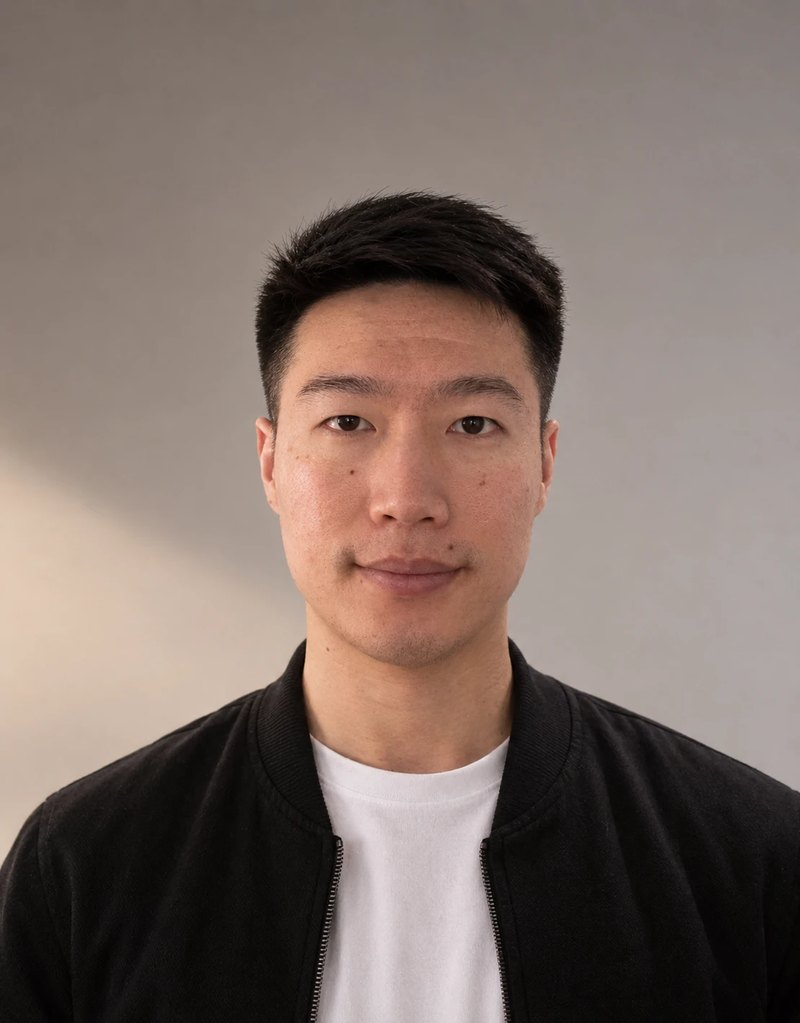
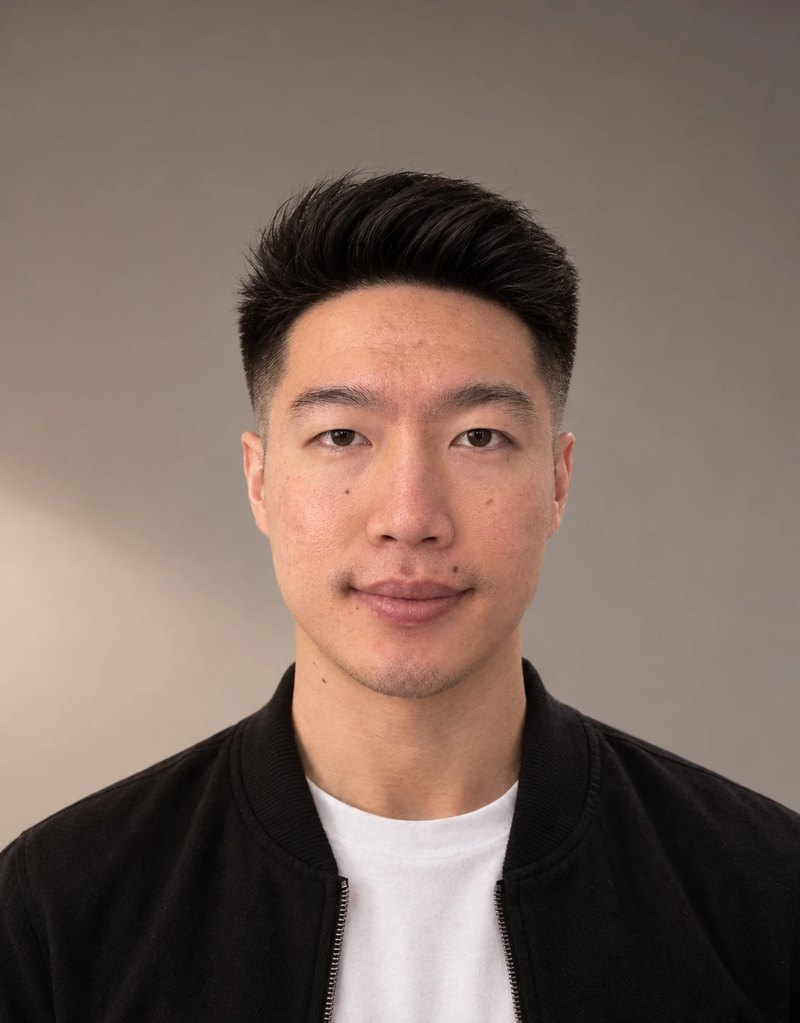
Swap in the 2026-10-01 studio headshot
Replace assets/photo.jpg with the portrait Cody sent 2026-10-01, made with the
README's Pillow recipe (800x1023 progressive JPEG, sRGB, ~72 KB). Same path,
so both polaroids and the JSON-LD image pick it up with no markup changes. The
README's size note now says ~72 KB.

diff --git a/README.md b/README.md
@@ -62,7 +62,7 @@ rounded-up estimates so the figures stay true as the apps grow and rarely need e
 
 - **Copy style:** no em dashes. Use a period, a comma, or a colon instead. En dashes appear
   only in year ranges on the Experience page. No italics anywhere.
-- **Swap the photo:** the portrait is `assets/photo.jpg` (currently an 800x1023 JPEG, ~69 KB),
+- **Swap the photo:** the portrait is `assets/photo.jpg` (currently an 800x1023 JPEG, ~72 KB),
   referenced from the `<div class="polaroid">` block in `index.html` and `about.html` and from
   the Person JSON-LD `image` in both. Replace the file and keep the name; no markup changes.
   Both slots crop with `object-fit: cover` (21:26 on home, 4:5 on About), so a portrait source
